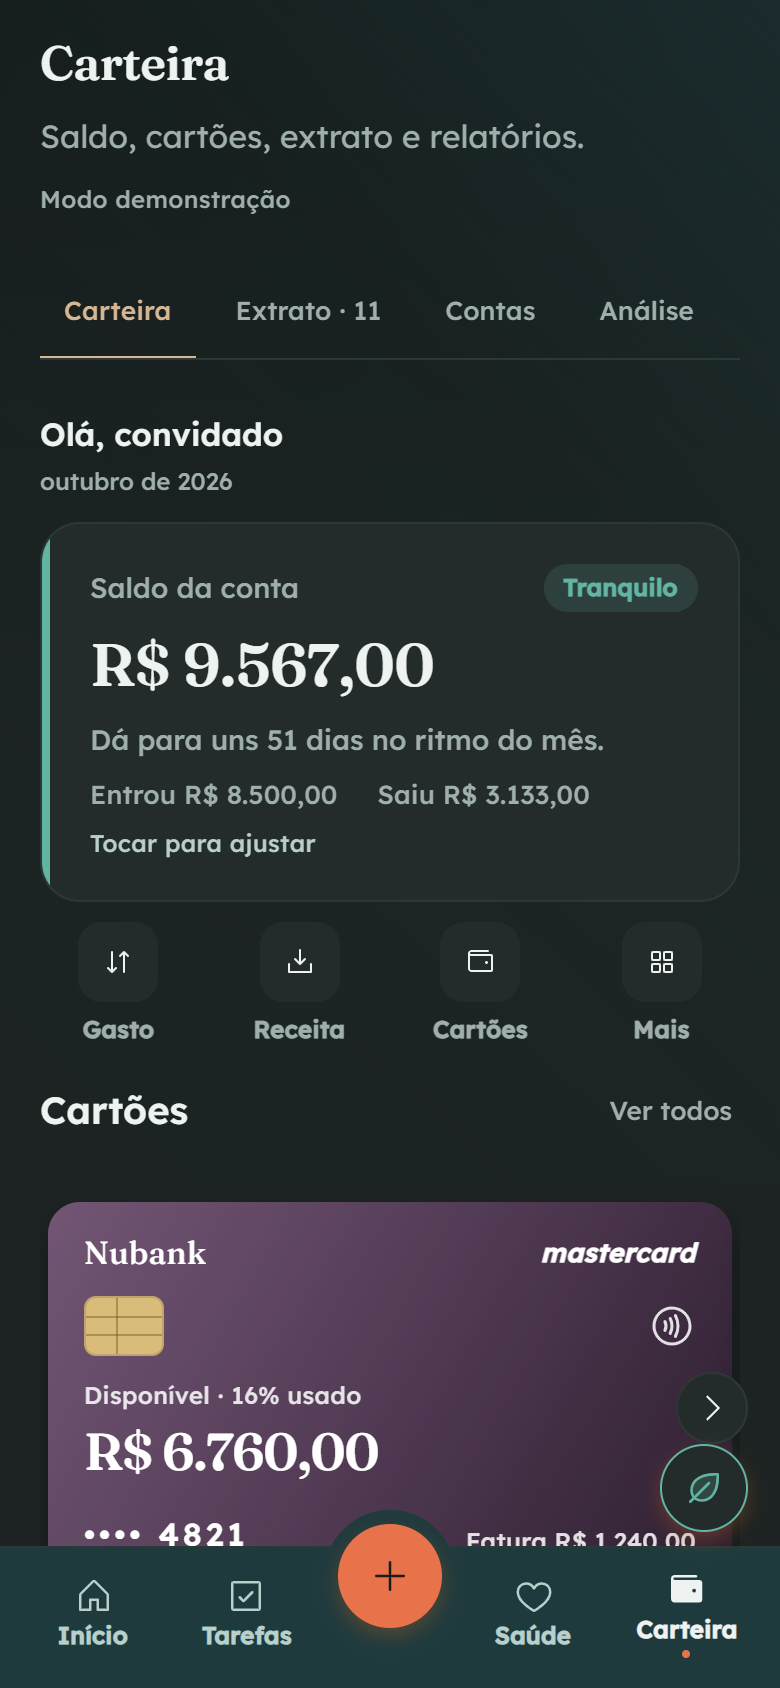
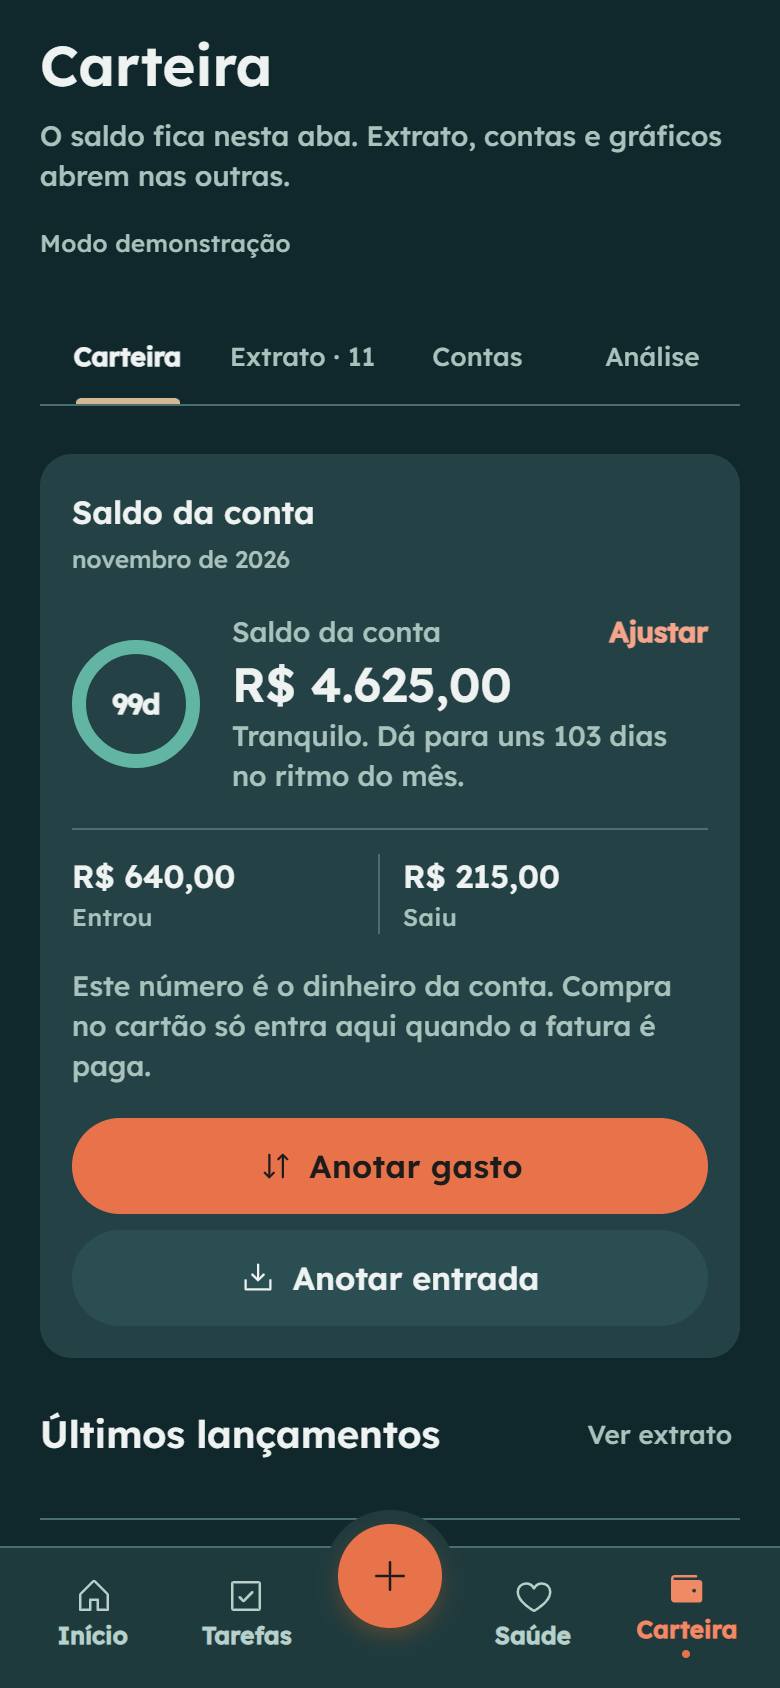
mudando os prints do readme

diff --git a/README.MD b/README.MD
@@ -257,23 +257,11 @@ Uma manhã corrida, em menos de um minuto:
 
 Os prints são do app real, no modo convidado.
 
-## Em que o design se apoia
+## Princípios do design
 
-São referências de produto e de interface que o código cita e segue. Não são estudos clínicos, e o app não promete efeito terapêutico.
+O app organiza a rotina e não promete efeito terapêutico. Estas regras guiam as telas:
 
-| Referência | O que veio dela para o SunFy |
-|---|---|
-| [Tiimo](https://www.tiimoapp.com) (planejador visual para TDAH) | O cartão "Agora e depois": o que é agora, com o tempo restante em barra e em texto, e poucas coisas por vez. A ideia é tornar o tempo visível para quem tem cegueira temporal (dificuldade de perceber o tempo passando), comum no TDAH |
-| [Bearable](https://bearable.app) e [Daylio](https://daylio.net) | Ritual da manhã: sono e humor num toque, escala de 1 a 5, nota opcional. Registro rápido em cima, padrões e histórico abaixo |
-| [How We Feel](https://howwefeel.org) | Check-in de humor como ação principal da aba Saúde, sem exigir texto |
-| [Material Design 3](https://m3.material.io) | Listas agrupadas, abas fixas com indicador, toque com onda no Android, áreas de toque de no mínimo 44 a 48 px |
-| [Nielsen Norman Group](https://www.nngroup.com) | Em telas largas, a escala de texto não cresce: tipo maior só espalha o conteúdo e força rolagem |
-| [Refactoring UI](https://www.refactoringui.com) | Espaçamento em grade de 4 px e hierarquia por peso e cor, não só por tamanho |
-| [WCAG 2.2](https://www.w3.org/TR/WCAG22/) | Contraste mínimo de 4,5:1 para texto (os valores ficam anotados ao lado de cada cor em `packages/ui-tokens/src/colors.ts`), opção de texto maior, alto contraste e menos movimento |
-| [CVV](https://www.cvv.org.br) | O contato de apoio emocional fica na aba Saúde, com destaque no modo suave |
-
-Regras que saíram disso:
-
+* **Leitura fácil.** Texto com contraste mínimo de 4,5:1, opção de texto maior, alto contraste e menos movimento.
 * **Modo suave.** Quando o humor do dia é 1 ou 2, a aba Saúde troca as metas por um check-in, dois exercícios curtos de respiração e o CVV.
 * **Horário sugerido é marcado como sugestão.** O que o Axel encaixa aparece diferente do que veio da agenda.
 * **Exercícios de TCC são opcionais e curtos**, com aviso de que não substituem psicoterapia.
